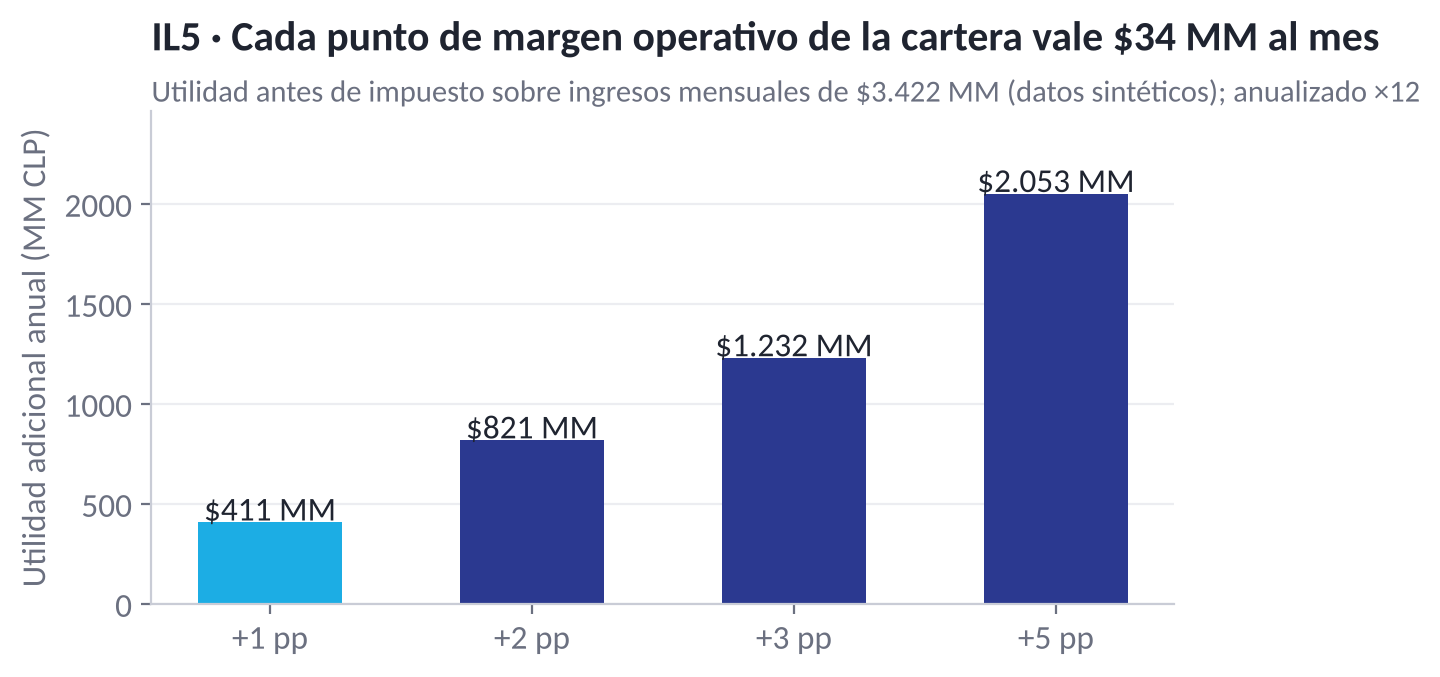
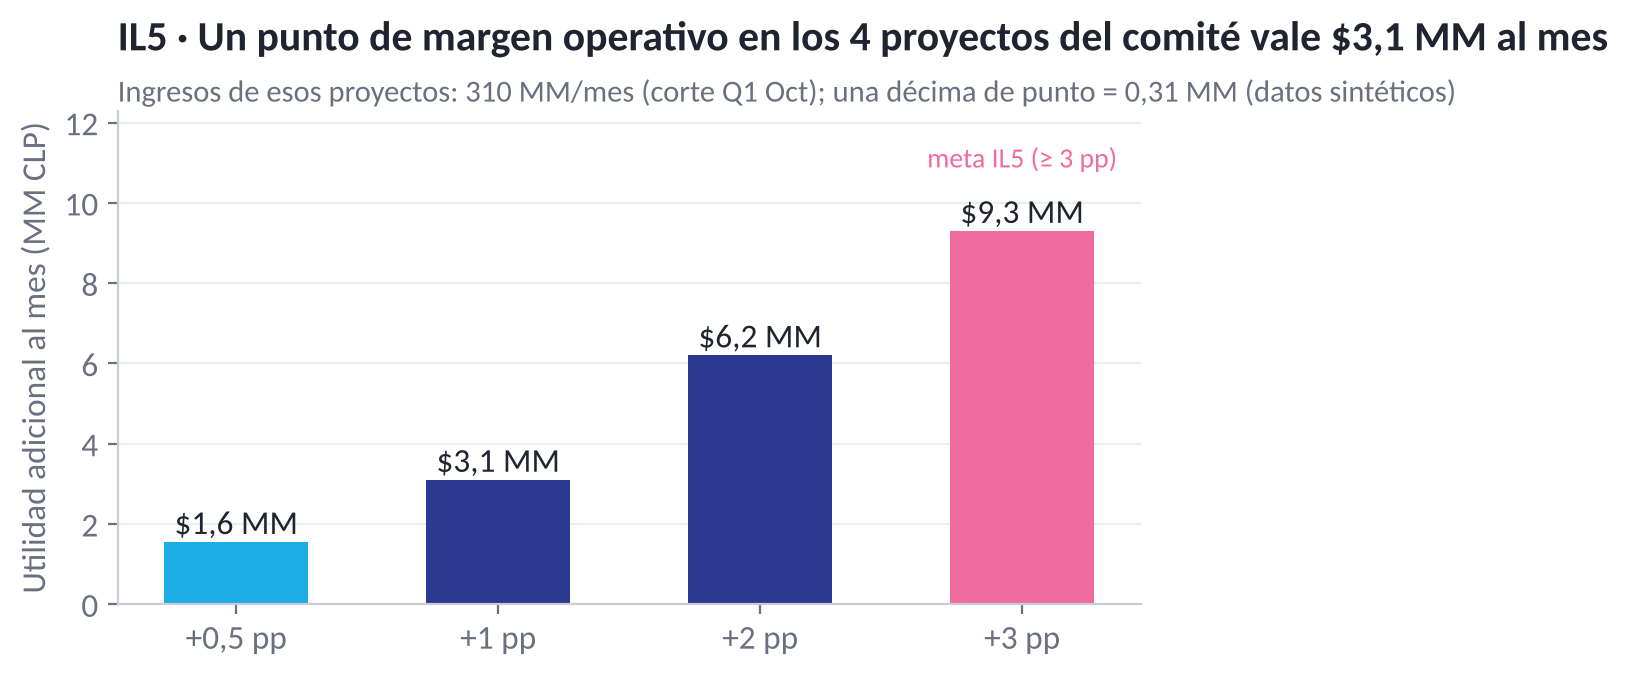
IL5: utilidad por punto calculada sobre los proyectos del comité, con décimas de punto
Claude-Session: https://claude.ai/code/session_01EJT9Xyhnx9149oAhq2cPR6

diff --git a/src/motor/kpis.py b/src/motor/kpis.py
@@ -10,8 +10,9 @@ Fuentes:
 
 El IL5 principal es el impacto en rentabilidad: cada punto de margen operativo que el
 comité recupera en un proyecto equivale al 1% de los ingresos de ese proyecto en
-utilidad antes de impuesto. La métrica es el margen operativo (antes de OH Latam, no
-operacional e impuesto) porque es lo que la gerencia del proyecto controla.
+utilidad antes de impuesto; la base son los proyectos de la lista del comité, no la
+cartera. La métrica es el margen operativo (antes de OH Latam, no operacional e
+impuesto) porque es lo que la gerencia del proyecto controla.
 
 Uso:
     python -m motor.kpis
@@ -31,7 +32,6 @@ def calcular_kpis() -> pd.DataFrame:
     if "Corte" not in ej.columns:
         ej["Corte"] = "Cierre"
     ok = ej[ej["Estado"] == "OK"]
-    cierres = ok[ok["Corte"] == "Cierre"]
     cortes = ok[ok["Corte"] == "Q1"]
 
     def _leer(patron):
@@ -39,10 +39,10 @@ def calcular_kpis() -> pd.DataFrame:
         return pd.concat([pd.read_csv(p) for p in rutas], ignore_index=True) if rutas else pd.DataFrame()
     comite = _leer("comite_rentabilidad_*_Q1.csv")
     precision = _leer("precision_proyeccion_*.csv")
-    resumenes = _leer("resumen/resumen_cierre_*.csv")
-    ing_mes = resumenes["Ingresos De Explotacion"].sum() / cierres["Mes"].nunique() if len(resumenes) else 0
-    utilidad_por_punto = ing_mes * 0.01
     ultimo = comite[comite["Mes"] == comite["Mes"].max()] if len(comite) else comite
+    # Base del IL5: los ingresos de los proyectos que el comité puede mover, no la cartera completa
+    ing_comite = ultimo["Ingresos De Explotacion"].sum() if len(ultimo) else 0
+    utilidad_por_punto = ing_comite * 0.01
 
     seg_c = LOGS / "seguimiento_comite.csv"
     interv = pd.read_csv(seg_c) if seg_c.exists() else pd.DataFrame()
@@ -80,8 +80,10 @@ def calcular_kpis() -> pd.DataFrame:
          "≤ 5 pp", (precision["ErrorPP"].abs().mean() <= 5) if len(precision) else None, "proyección vs. cierre"),
         ("IL4", "Acierto al clasificar proyectos bajo margen operativo mínimo", precision["Acierto"].mean() if len(precision) else 0,
          "≥ 85%", (precision["Acierto"].mean() >= 0.85) if len(precision) else None, "proyección vs. cierre"),
-        ("IL5", "Utilidad por punto de margen operativo de la cartera ($/mes)", utilidad_por_punto, "informativo", True,
-         "1% de los ingresos mensuales"),
+        ("IL5", "Utilidad por punto de margen operativo en los proyectos del comité ($/mes)", utilidad_por_punto,
+         "informativo", True, f"1% de sus ingresos ({len(ultimo)} proyectos)"),
+        ("IL5", "Utilidad por décima de punto en los proyectos del comité ($/mes)", utilidad_por_punto / 10,
+         "informativo", True, "0,1% de sus ingresos"),
         ("IL5", "Proyectos bajo margen operativo mínimo en la última proyección", len(ultimo), "informativo", True,
          f"corte {ultimo['Mes'].max() if len(ultimo) else '-'} Q1"),
         ("IL5", "Utilidad en juego en la última proyección ($)", ultimo["UtilidadEnJuego"].sum() if len(ultimo) else 0,

diff --git a/docs/generar_graficos.py b/docs/generar_graficos.py
@@ -174,18 +174,25 @@ def precision(ej):
     plt.close(fig)
 
 
-def utilidad_por_punto(ing_mes):
+def utilidad_por_punto(ruta_comite):
+    """Utilidad mensual adicional según los puntos de margen operativo que recuperen los proyectos del comité."""
+    k = pd.read_csv(ruta_comite)
+    ing = k["Ingresos De Explotacion"].sum()
     fig, ax = plt.subplots(figsize=(6.6, 3.2))
-    puntos = [1, 2, 3, 5]
-    vals = [p * ing_mes * 0.01 * 12 / 1e6 for p in puntos]
-    ax.bar([f"+{p} pp" for p in puntos], vals, color=[CELESTE, NAVY, NAVY, NAVY], width=0.55)
+    puntos = [0.5, 1, 2, 3]
+    vals = [p * ing * 0.01 / 1e6 for p in puntos]
+    ax.bar([f"+{str(p).replace('.', ',')} pp" for p in puntos], vals, color=[CELESTE, NAVY, NAVY, ROSA], width=0.55)
     for i, v in enumerate(vals):
-        ax.text(i, v + 8, f"${v:,.0f} MM".replace(",", "."), ha="center", fontsize=12, color=TINTA)
-    ax.set_ylim(0, max(vals) * 1.2)
-    ax.set_ylabel("Utilidad adicional anual (MM CLP)")
+        ax.text(i, v + 0.2, f"${v:,.1f} MM".replace(".", "X").replace(",", ".").replace("X", ","), ha="center", fontsize=12, color=TINTA)
+    ax.set_ylim(0, max(vals) * 1.32)
+    ax.set_ylabel("Utilidad adicional al mes (MM CLP)")
     ax.grid(axis="x", visible=False)
-    _titulo(ax, "IL5 · Cada punto de margen operativo de la cartera vale " + mm(ing_mes * 0.01) + " al mes",
-            f"Utilidad antes de impuesto sobre ingresos mensuales de {mm(ing_mes)} (datos sintéticos); anualizado ×12")
+    ax.text(3, max(vals) * 1.17, "meta IL5 (≥ 3 pp)", color=ROSA, ha="center", fontsize=10)
+    mes = k["Mes"].iloc[0]
+    _titulo(ax, f"IL5 · Un punto de margen operativo en los {len(k)} proyectos del comité vale "
+            + f"${ing * 0.01 / 1e6:,.1f} MM al mes".replace(".", ","),
+            f"Ingresos de esos proyectos: {mm(ing).replace('$', '')}/mes (corte Q1 {MESES.get(mes, mes)}); una décima de punto = "
+            + f"{ing * 0.001 / 1e6:,.2f} MM".replace(".", ",") + " (datos sintéticos)")
     fig.savefig(IMG / "il5_utilidad_por_punto.png")
     plt.close(fig)
 
@@ -204,8 +211,7 @@ def main():
     comites = sorted(glob.glob(str(RAIZ / "output" / "comite_rentabilidad_*_Q1.csv")))
     comite(comites[-1])
     precision(ej)
-    res = pd.concat([pd.read_csv(p) for p in sorted(glob.glob(str(RAIZ / "output" / "resumen" / "resumen_cierre_*.csv")))])
-    utilidad_por_punto(res["Ingresos De Explotacion"].sum() / ej["Mes"].nunique())
+    utilidad_por_punto(comites[-1])
     print("Gráficos en", IMG)
 
 

diff --git a/README.md b/README.md
@@ -128,7 +128,8 @@ Las filas en cuarentena quedan en la hoja `Cuarentena` del Excel con su motivo, 
 
 **Lógica del IL5.** El margen es resultado ÷ ingresos, así que cada punto de margen operativo que un proyecto mejora,
 sea bajando costos (dotación, horas extra, mix) o subiendo tarifa, equivale al 1% de sus ingresos en utilidad adicional
-antes de impuesto; sobre la cartera completa, un punto vale 1% de los ingresos mensuales. El comité registra en
+antes de impuesto. La base es la lista del comité, no la cartera: en el corte de octubre los 4 proyectos facturan
+$310 MM/mes, así que un punto vale $3,1 MM al mes y una décima de punto $0,31 MM. El comité registra en
 `logs/seguimiento_comite.csv` los proyectos intervenidos, su margen operativo proyectado y el real del cierre siguiente;
 `motor.kpis` calcula los puntos recuperados y la utilidad generada, y marca el KPI como *Pendiente* mientras no haya
 cierres posteriores a la intervención.
